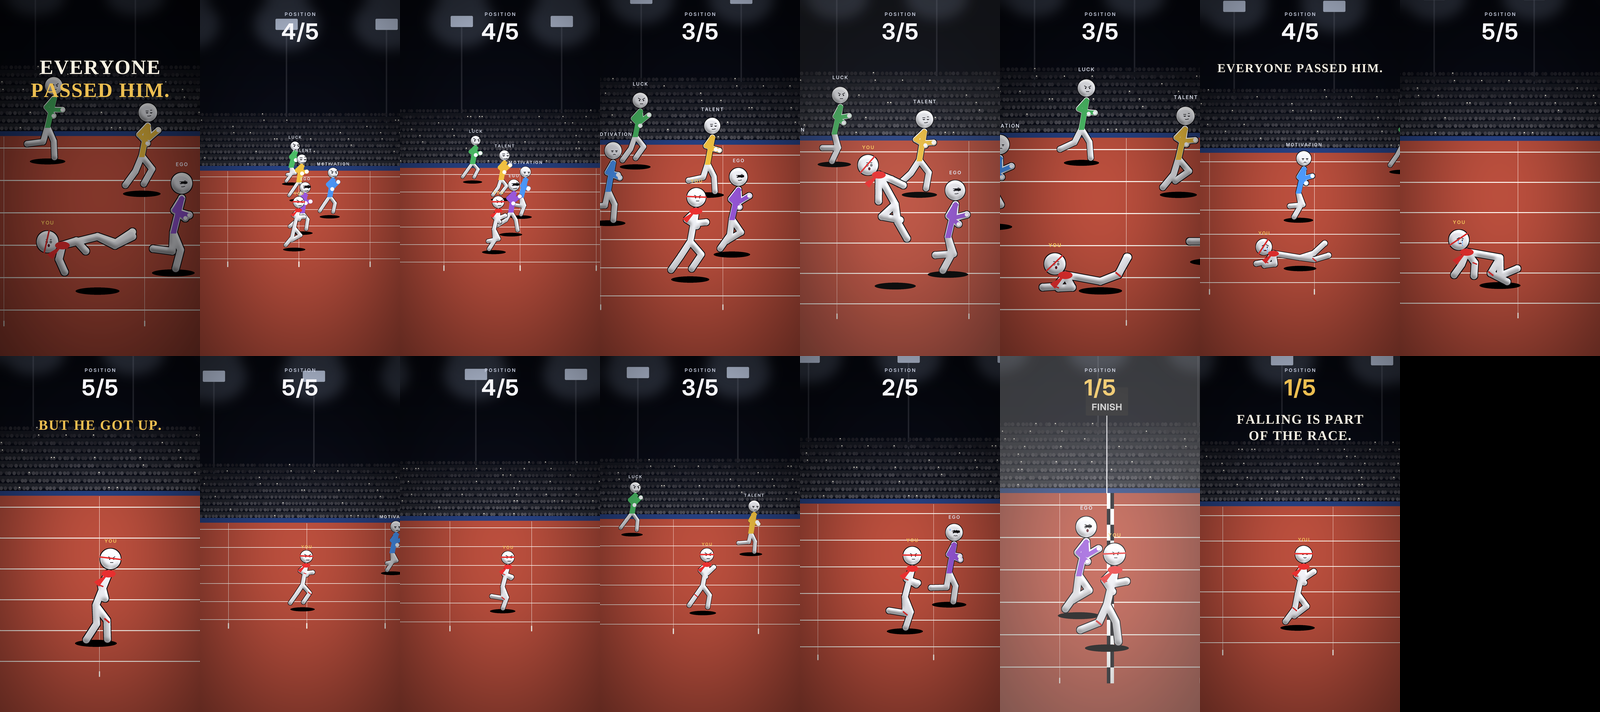
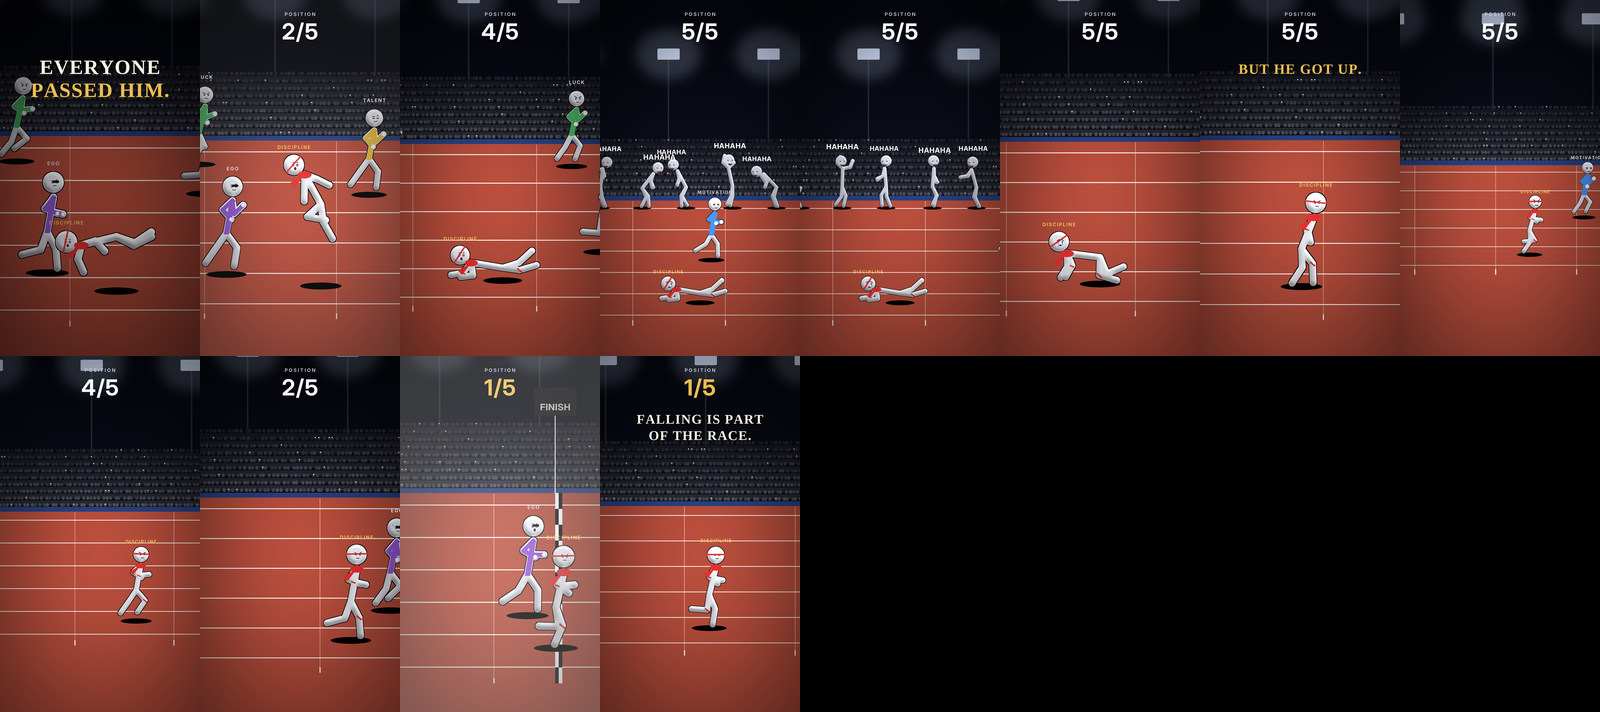
Track race v2: 2x speed, DISCIPLINE label, laughing crowd (mocap) when he falls
Claude-Session: https://claude.ai/code/session_01YHEweCRu4KjpeQQTJaUupp

diff --git a/stick/track.py b/stick/track.py
@@ -40,7 +40,7 @@ def clip(n):
     return _C[n]
 
 
-RUN, RUN_A, RUN_P, STRIDE = "009/09_01", 0.30, 0.742, 337.0
+RUN, RUN_A, RUN_P, STRIDE = "009/09_01", 0.30, 0.742, 430.0
 DIVE, GETUP, LIMP, WALK = "090/90_16", "140/140_01", "091/91_24", "091/91_04"
 STAND = PW.STAND
 SET = dict(STAND, head=(46, -126), neck=(34, -92), kl=(34, 36), fl=(4, 104), kr=(-12, 50), fr=(-44, 110),
@@ -53,17 +53,18 @@ VICTORY = dict(PW.ARMS_UP)
 S_BANG = 0.6
 S_HIT = 8.4            # EGO clips him
 S_GROUND = 9.35
-S_UP0, S_UP1 = 10.9, 12.3
-S_LIMP1 = 13.6
-S_RUN = 14.4
-S_FIN = 24.6
-S_END = 28.5
+S_LAUGH0, S_LAUGH1 = 10.0, 11.7
+S_UP0, S_UP1 = 11.9, 13.3
+S_LIMP1 = 14.5
+S_RUN = 15.2
+S_FIN = 24.0
+S_END = 27.9
 DT = 1 / 240
 TT = np.arange(0, S_END + 1, DT)
 
 RUNNERS = {
     # name: lane, colour, speed keys
-    "TALENT": (1, (222, 178, 60), [(0, 0), (S_BANG, 0), (1.2, 500), (12, 500), (17, 470), (21, 420), (S_END, 380)]),
+    "TALENT": (1, (222, 178, 60), [(0, 0), (S_BANG, 0), (1.2, 500), (12, 500), (15, 450), (18, 360), (S_END, 320)]),
     "MOTIVATION": (2, (70, 140, 230), [(0, 0), (S_BANG, 0), (1.1, 590), (3.4, 590), (5.0, 330), (S_END, 300)]),
     "YOU": (4, None, [(0, 0), (S_BANG, 0), (1.3, 500), (S_HIT, 490), (S_HIT + 0.3, 330), (S_GROUND, 60), (S_GROUND + 0.2, 0),
                       (S_UP1, 0), (S_UP1 + 0.3, 120), (S_LIMP1, 230), (S_RUN, 520), (S_RUN + 0.8, 760), (S_FIN - 2, 760),
@@ -75,14 +76,16 @@ RUNNERS = {
 ORDER = ["LUCK", "TALENT", "MOTIVATION", "EGO", "YOU"]   # far -> near
 
 
-def speed_curve(keys):
+def speed_curve(keys, nm=""):
     ks = np.array(keys, float)
+    fast = ~((ks[:, 0] > S_UP1) & (ks[:, 0] <= S_LIMP1)) if nm == "YOU" else np.ones(len(ks), bool)
+    ks[fast, 1] *= 2.0          # twice as fast
     return np.interp(TT, ks[:, 0], ks[:, 1])
 
 
 X = {}
 for nm, (lane, col, keys) in RUNNERS.items():
-    v = speed_curve(keys)
+    v = speed_curve(keys, nm)
     X[nm] = np.concatenate([[0.0], np.cumsum((v[1:] + v[:-1]) / 2 * DT)])
     X[nm] += {"TALENT": 0, "MOTIVATION": 0, "YOU": 0, "EGO": 0, "LUCK": 0}[nm]
 X_F = float(np.interp(S_FIN, TT, X["YOU"]))
@@ -124,11 +127,14 @@ def cam(s):
             (S_FIN - 0.6, 1.6), (S_FIN, 1.9), (S_FIN + 1.2, 1.45), (S_END, 1.6)]
     ks = np.array(keys)
     z = float(np.interp(s, ks[:, 0], ks[:, 1]))
-    lead = 120 * clamp(vat("YOU", s) / 500)          # look ahead of the runner
+    lead = 120 * clamp(vat("YOU", s) / 1000)          # look ahead of the runner
     # gently smoothed follow
     xs = [xat("YOU", s - k * 0.05) for k in range(8)]
     cx = sum(xs) / len(xs) + lead
     cy = 4 * LANE_GAP - 170 - 40 * (z - 1)
+    k = smooth(prog(s, S_LAUGH0 - 0.15, S_LAUGH0)) * (1 - smooth(prog(s, S_LAUGH1, S_LAUGH1 + 0.25)))
+    if k > 0:
+        cx, cy, z = lerp(cx, hx, k), lerp(cy, 1.4 * LANE_GAP - 120, k), lerp(z, 1.25, k)
     return cx, cy, z
 
 
@@ -331,6 +337,38 @@ def headband(d, p, col):
     line(d, [(cx_ - r * c_, cy_ - r * s_), (cx_ + r * c_, cy_ + r * s_)], col + (255,), 8)
 
 
+# ---------------------------------------------------------------- the people laughing at him
+LAUGHERS = [(-430, "079/79_70", 1.0, 5.6, -1), (-250, "014/014_18".replace("014_", "14_"), 1.8, 4.4, 1),
+            (-60, "014/14_17", 1.5, 4.6, -1), (140, "013/13_14", 9.8, 13.6, 1), (330, "079/79_70", 2.4, 5.8, -1),
+            (520, "014/14_18", 7.0, 10.6, 1)]
+
+
+def laughers(st, d, s, c):
+    out = []
+    if not (S_LAUGH0 - 0.2 <= s < S_LAUGH1 + 0.3):
+        return out
+    hx = xat("YOU", s)
+    for i, (dx, nm, a, b, f) in enumerate(LAUGHERS):
+        x, gy = to_screen(hx + dx, -40, c)
+        sc = S * c[2] * 0.8
+        ct = a + ((s - S_LAUGH0) * 1.0 + i * 0.37) % (b - a)
+        p = clip(nm).pts(ct, x0=0, floor=gy, scale=sc, x_lock=x, facing=f)
+        ell(d, x, gy + 3, 50 * sc / S, 8 * sc / S, (0, 0, 0, 80))
+        figure(st, p, sc, light=(0.4, -0.9), body=(200, 204, 216))
+        face(ImageDraw.Draw(st), p, "laugh", f, s)
+        out.append((p, i))
+    return out
+
+
+def laugh_text(dd, s, people):
+    for p, i in people:
+        hx, hy = p["head"]
+        bob = 10 * math.sin(s * 14 + i * 1.7)
+        a = smooth(prog(s, S_LAUGH0 + 0.1 * i, S_LAUGH0 + 0.1 * i + 0.15)) * (1 - smooth(prog(s, S_LAUGH1 - 0.15, S_LAUGH1)))
+        PW.spaced(dd, hx + 10 * math.sin(i * 2.3), hy - 90 + bob, "HAHAHA", font("InterDisplay-Bold.otf", 34 + 4 * (i % 2)),
+                  (255, 255, 255, int(255 * a)), 2)
+
+
 # ---------------------------------------------------------------- time
 HOOK = 1.4
 
@@ -373,6 +411,7 @@ def frame(t):
     st = Image.new("RGBA", (W * K, H * K), (0, 0, 0, 0))
     d = ImageDraw.Draw(st)
     stadium(st, d, s, c)
+    laughers_ = laughers(st, d, s, c)
     pts = {}
     for nm in ORDER:
         pts[nm] = runner(st, d, nm, s, c)
@@ -394,7 +433,7 @@ def frame(t):
             continue
         hx, hy = p["head"]
         col = (246, 200, 90) if nm == "YOU" else (220, 224, 236)
-        PW.spaced(dd, hx, hy - 70 * c[2] * 0.9, nm, font("Inter-SemiBold.otf", int(16 + 6 * c[2])), col + (255,), 4)
+        PW.spaced(dd, hx, hy - 70 * c[2] * 0.9, "DISCIPLINE" if nm == "YOU" else nm, font("Inter-SemiBold.otf", int(16 + 6 * c[2])), col + (255,), 4)
     # header: position
     if t >= HOOK and s >= 1.0:
         pos = position(s)
@@ -407,9 +446,11 @@ def frame(t):
         if k > 0:
             text(im, W / 2, 300, "EVERYONE", int(110 * max(0.3, k)))
             text(im, W / 2, 300 + int(124 * max(0.3, k)), "PASSED HIM.", int(110 * max(0.3, k)), col=GOLD)
-    if S_GROUND + 0.6 <= s < S_UP0 + 0.2:
-        a_ = smooth(prog(s, S_GROUND + 0.6, S_GROUND + 0.9)) * (1 - smooth(prog(s, S_UP0 - 0.1, S_UP0 + 0.2)))
+    if S_GROUND + 0.4 <= s < S_LAUGH0 + 0.1:
+        a_ = smooth(prog(s, S_GROUND + 0.4, S_GROUND + 0.6)) * (1 - smooth(prog(s, S_LAUGH0 - 0.1, S_LAUGH0 + 0.1)))
         text(im, W / 2, 330, "EVERYONE PASSED HIM.", 66, a=a_)
+    if S_LAUGH0 <= s < S_LAUGH1:
+        laugh_text(dd, s, laughers_)
     if S_UP1 - 0.3 <= s < S_LIMP1 + 0.4:
         a_ = smooth(prog(s, S_UP1 - 0.3, S_UP1)) * (1 - smooth(prog(s, S_LIMP1, S_LIMP1 + 0.4)))
         text(im, W / 2, 330, "BUT HE GOT UP.", 76, col=GOLD, a=a_)
